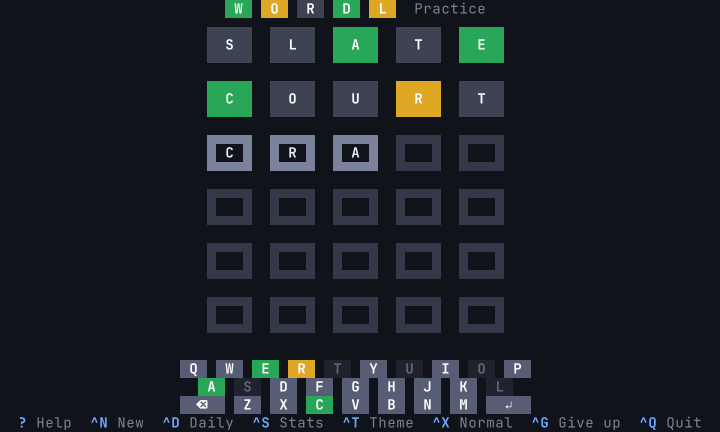
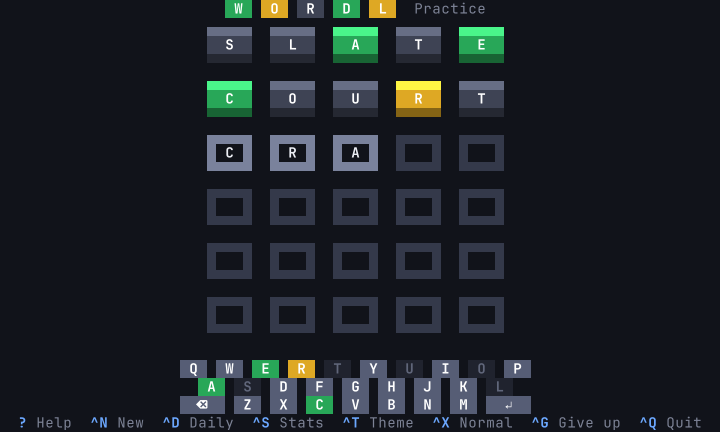
Draw tiles, keys and the title as shaded pixel art (0.2.6) (#11)
Filled blocks now have a lit top and left edge, a dark bottom and right
edge, and letters that cast a shadow, with a color for every pixel. It
is done with the half-block character the game already used: each cell
is drawn in its upper pixel's color on a background of its lower
pixel's, so it works in any terminal with enough colors. A key known
not to be in the word looks pressed in. The terminal theme, which has
no colors to shade, stays flat.

diff --git a/src/ui.rs b/src/ui.rs
@@ -12,7 +12,7 @@ use crate::app::{Action, App, FLASH_STEP, FLIP, KeyId, MessageKind, Modal, SHAKE
 use crate::font::{self, Label};
 use crate::game::{self, Mark, Mode, Status};
 use crate::layout::{self, Layout};
-use crate::theme::{Paint, Theme};
+use crate::theme::{self, Paint, Shades, Theme};
 use crate::words;
 
 const KEY_ROWS: [&str; 3] = ["QWERTYUIOP", "ASDFGHJKL", "ZXCVBNM"];
@@ -74,8 +74,11 @@ impl Canvas<'_> {
     /// blocks without spending a row on it. `fill` paints the block in `bg`; otherwise
     /// it is a frame in `bg` around the label. `inset` squashes the block vertically,
     /// for the flip animation.
+    ///
+    /// A filled block is drawn raised, as pixel art, where the theme has shades for it
+    /// (see `sprite`); `sunken` presses it in instead.
     #[allow(clippy::too_many_arguments)]
-    fn block(&mut self, x: i32, y: i32, w: i32, t: i32, fill: bool, bg: Paint, fg: Paint, label: Label, inset: i32) {
+    fn block(&mut self, x: i32, y: i32, w: i32, t: i32, fill: bool, bg: Paint, fg: Paint, label: Label, inset: i32, sunken: bool) {
         let screen = self.th.bg.bg;
         if t < 3 {
             return self.put(x, y, &centered(&label.text(w), w), on(fg.fg, bg.bg).bold());
@@ -88,8 +91,21 @@ impl Canvas<'_> {
         if bottom == top {
             return self.put(x, y + top, &"━".repeat(w as usize), edge);
         }
-        self.put(x, y + top, &"▄".repeat(w as usize), edge);
-        self.put(x, y + bottom, &"▀".repeat(w as usize), edge);
+        let shades = self.th.shades(bg).filter(|_| fill);
+        if let Some(shades) = shades
+            && t >= 5
+        {
+            return self.sprite(x, y, w, t, bg, fg, label, inset, sunken, shades);
+        }
+        // With one row of text there is no room for more than a lit top edge and a
+        // dark bottom one.
+        let (above, below) = match shades {
+            Some(s) if sunken => (s.dark, s.light),
+            Some(s) => (s.light, s.dark),
+            None => (bg.fg, bg.fg),
+        };
+        self.put(x, y + top, &"▄".repeat(w as usize), on(above, screen));
+        self.put(x, y + bottom, &"▀".repeat(w as usize), on(below, screen));
         let rows = if t == 3 { vec![centered(&label.text(w), w)] } else { font::glyph(label, w, t) };
         for i in top + 1..bottom {
             let Some(row) = rows.get((i - 1) as usize) else { continue };
@@ -100,6 +116,49 @@ impl Canvas<'_> {
                 self.put(x, y + i, "█", edge);
                 self.put(x + 1, y + i, &inner, on(fg.fg, screen).bold());
                 self.put(x + w - 1, y + i, "█", edge);
+            }
+        }
+    }
+
+    /// A filled block as pixel art: lit top and left edges, dark bottom and right
+    /// edges, and a letter that casts a shadow down and to the right.
+    ///
+    /// Every pixel has its own color. A cell holds two of them, one above the other:
+    /// it is drawn as `▀` in the color of the upper pixel on a background in the color
+    /// of the lower one. The block's first and last pixel rows are the screen's, as
+    /// for flat blocks, which keeps the gap between blocks.
+    #[allow(clippy::too_many_arguments)]
+    fn sprite(&mut self, x: i32, y: i32, w: i32, t: i32, bg: Paint, fg: Paint, label: Label, inset: i32, sunken: bool, shades: Shades) {
+        let screen = self.th.bg.bg;
+        let ink = font::pixels(label, w, t);
+        let inked = |col: i32, row: i32| row >= 2 && col >= 0 && ink.get((row - 2) as usize).and_then(|r| r.get(col as usize)).copied().unwrap_or(false);
+        let (lit, unlit) = if sunken { (shades.dark, shades.light) } else { (shades.light, shades.dark) };
+        // Big blocks get a thicker edge and a longer shadow, so the look scales.
+        let edge = if t >= 10 { 2 } else { 1 };
+        let reach = (font::scale_for(t) + 1) / 2;
+        // A light letter throws a dark shadow; a dark letter on a bright tile gets a
+        // light one instead, and reads as engraved.
+        let cast = if theme::brightness(fg) >= theme::brightness(bg) { shades.shadow } else { shades.light };
+        let (first, last) = (1 + 2 * inset, 2 * t - 2 - 2 * inset);
+        let color_at = |col: i32, row: i32| {
+            if row < first || row > last {
+                screen
+            } else if inked(col, row) {
+                fg.fg
+            } else if row - first < edge || col < edge {
+                lit
+            } else if last - row < edge || w - 1 - col < edge {
+                unlit
+            } else if !sunken && inked(col - reach, row - reach) {
+                cast
+            } else {
+                bg.bg
+            }
+        };
+        for i in inset..t - inset {
+            for col in 0..w {
+                let (upper, lower) = (color_at(col, 2 * i), color_at(col, 2 * i + 1));
+                self.put(x + col, y + i, if upper == lower { " " } else { "▀" }, on(upper, lower));
             }
         }
     }
@@ -161,7 +220,7 @@ fn draw_title(c: &mut Canvas, app: &App, l: &Layout) {
     }
     let colors = [(th.g, th.gfg), (th.y, th.yfg), (th.x, th.xfg), (th.g, th.gfg), (th.y, th.yfg)];
     for (i, (letter, (bg, fg))) in "WORDL".bytes().zip(colors).enumerate() {
-        c.block(x + i as i32 * l.title.px, l.hy, l.title.w, l.title.t, true, bg, fg, Label::Letter(letter), 0);
+        c.block(x + i as i32 * l.title.px, l.hy, l.title.w, l.title.t, true, bg, fg, Label::Letter(letter), 0, false);
     }
 }
 
@@ -214,7 +273,7 @@ fn draw_tile(c: &mut Canvas, app: &App, l: &Layout, row: usize, col: usize) {
         {
             (bg, fg) = (th.win, th.gfg);
         }
-        return c.block(x, y, d.w, d.t, true, bg, fg, Label::Letter(game.guesses[row][col]), inset);
+        return c.block(x, y, d.w, d.t, true, bg, fg, Label::Letter(game.guesses[row][col]), inset, false);
     }
     let letter = if row < guessed {
         Some(game.guesses[row][col])
@@ -228,9 +287,9 @@ fn draw_tile(c: &mut Canvas, app: &App, l: &Layout, row: usize, col: usize) {
     };
     let label = letter.map_or(Label::None, Label::Letter);
     if d.t == 1 {
-        c.block(x, y, d.w, 1, true, th.empty, th.fg, label, 0);
+        c.block(x, y, d.w, 1, true, th.empty, th.fg, label, 0, false);
     } else {
-        c.block(x, y, d.w, d.t, false, if letter.is_some() { th.typed } else { th.empty }, th.fg, label, inset);
+        c.block(x, y, d.w, d.t, false, if letter.is_some() { th.typed } else { th.empty }, th.fg, label, inset, false);
     }
 }
 
@@ -273,7 +332,8 @@ fn draw_keyboard(c: &mut Canvas, app: &App, l: &Layout) {
             Some(mark) => mark_paints(th, mark),
             None => (th.key, th.keyfg),
         };
-        c.block(x, y, w, l.keys.t, true, bg, fg, label, 0);
+        // A key known not to be in the word looks pressed in.
+        c.block(x, y, w, l.keys.t, true, bg, fg, label, 0, mark == Some(Mark::Gray));
     }
 }
 
@@ -630,6 +690,43 @@ mod tests {
         // The typed L as a bitmap inside its frame: a vertical stroke, then its foot.
         assert!(has(&s, "█ ██         █  █            █"), "no block letter");
         assert!(has(&s, "█ ██▄▄▄▄▄▄▄▄ █") || has(&s, "█ ██████████ █"), "no foot of the L");
+        let _ = std::fs::remove_dir_all(dir);
+    }
+
+    /// A revealed tile on a big terminal is pixel art: every cell carries two pixels,
+    /// the upper as the character's color and the lower as its background.
+    #[test]
+    fn revealed_tiles_are_shaded_pixel_art() {
+        let (mut app, dir) = app("sprite");
+        app.game.add_guess(game::word("CRANE").unwrap());
+        app.size = (190, 50);
+        let l = layout::layout(190, 50).unwrap();
+        let cells = |app: &App| {
+            let mut terminal = Terminal::new(TestBackend::new(190, 50)).unwrap();
+            terminal.draw(|f| draw(f, app)).unwrap();
+            let buf = terminal.backend().buffer().clone();
+            move |x: i32, y: i32| buf[((l.bx + x) as u16, (l.by + y) as u16)].clone()
+        };
+        let th = app.theme;
+        let shades = th.shades(th.g).unwrap();
+        let at = cells(&app);
+        // Top-left cell of the first tile: the screen above, the lit edge below.
+        assert_eq!((at(0, 0).symbol(), at(0, 0).fg, at(0, 0).bg), ("▀", th.bg.bg, shades.light));
+        // Further down the left edge both pixels are lit, so the cell is one color.
+        assert_eq!((at(0, 3).symbol(), at(0, 3).bg), (" ", shades.light));
+        // The right edge and the bottom edge are dark.
+        assert_eq!(at(l.board.w - 1, 3).bg, shades.dark);
+        assert_eq!((at(3, l.board.t - 1).fg, at(3, l.board.t - 1).bg), (shades.dark, th.bg.bg));
+        // Somewhere on the tile there is the letter, its shadow, and the plain green.
+        let seen: Vec<_> = (0..l.board.w).flat_map(|x| (0..l.board.t).map(move |y| (x, y))).flat_map(|(x, y)| [at(x, y).fg, at(x, y).bg]).collect();
+        for color in [th.gfg.fg, shades.shadow, th.g.bg] {
+            assert!(seen.contains(&color), "{color:?} is missing from the tile");
+        }
+
+        // The terminal theme has no shades to work with: its tiles stay flat.
+        app.theme = theme::theme("terminal", true);
+        let at = cells(&app);
+        assert_eq!((at(0, 0).symbol(), at(0, 0).fg), ("▄", app.theme.g.fg));
         let _ = std::fs::remove_dir_all(dir);
     }
 

diff --git a/src/theme.rs b/src/theme.rs
@@ -14,11 +14,26 @@ use ratatui::style::Color;
 pub struct Paint {
     pub fg: Color,
     pub bg: Color,
+    /// The color as red, green and blue, from which lighter and darker shades are
+    /// worked out. `None` in the "terminal" theme, whose colors are the terminal's own
+    /// and cannot be shaded.
+    pub rgb: Option<(u8, u8, u8)>,
+}
+
+/// The shades that make a flat tile look raised: a lit edge, a dark edge, and the
+/// shadow a letter casts on it.
+#[derive(Clone, Copy, PartialEq, Eq, Debug)]
+pub struct Shades {
+    pub light: Color,
+    pub dark: Color,
+    pub shadow: Color,
 }
 
 #[derive(Clone, Copy)]
 pub struct Theme {
     pub name: &'static str,
+    /// Whether colors are sent as exact RGB or as the nearest of 256.
+    truecolor: bool,
     /// The screen.
     pub bg: Paint,
     /// Ordinary text.
@@ -94,10 +109,11 @@ fn from_rgb(name: &'static str, truecolor: bool, c: [(u8, u8, u8); 23]) -> Theme
     let p = |i: usize| {
         let (r, g, b) = c[i];
         let color = if truecolor { Color::Rgb(r, g, b) } else { nearest_256(r, g, b) };
-        Paint { fg: color, bg: color }
+        Paint { fg: color, bg: color, rgb: Some((r, g, b)) }
     };
     Theme {
         name,
+        truecolor,
         bg: p(0),
         fg: p(1),
         dim: p(2),
@@ -126,11 +142,12 @@ fn from_rgb(name: &'static str, truecolor: bool, c: [(u8, u8, u8); 23]) -> Theme
 
 /// The terminal's own colors. `Reset` is its default foreground or background.
 fn terminal() -> Theme {
-    let same = |c: Color| Paint { fg: c, bg: c };
+    let same = |c: Color| Paint { fg: c, bg: c, rgb: None };
     let default = same(Color::Reset);
     Theme {
         name: "terminal",
-        bg: Paint { fg: Color::Black, bg: Color::Reset },
+        truecolor: false,
+        bg: Paint { fg: Color::Black, bg: Color::Reset, rgb: None },
         fg: default,
         dim: same(Color::DarkGray),
         empty: same(Color::DarkGray),
@@ -144,7 +161,7 @@ fn terminal() -> Theme {
         xfg: same(Color::White),
         key: same(Color::Gray),
         keyfg: same(Color::Black),
-        keyx: Paint { fg: Color::DarkGray, bg: Color::Reset },
+        keyx: Paint { fg: Color::DarkGray, bg: Color::Reset, rgb: None },
         keyxfg: same(Color::DarkGray),
         accent: same(Color::Cyan),
         panel: default,
@@ -154,6 +171,24 @@ fn terminal() -> Theme {
         btn: same(Color::Cyan),
         btnfg: same(Color::Black),
     }
+}
+
+impl Theme {
+    /// Lighter and darker versions of a color, for a tile drawn as raised pixel art.
+    /// `None` when the theme's colors cannot be shaded: such tiles stay flat.
+    pub fn shades(&self, paint: Paint) -> Option<Shades> {
+        let (r, g, b) = paint.rgb?;
+        let color = |f: fn(f32) -> f32| {
+            let [r, g, b] = [r, g, b].map(|c| f(c as f32).clamp(0.0, 255.0) as u8);
+            if self.truecolor { Color::Rgb(r, g, b) } else { nearest_256(r, g, b) }
+        };
+        Some(Shades { light: color(|c| c * 1.35 + 20.0), dark: color(|c| c * 0.6), shadow: color(|c| c * 0.45) })
+    }
+}
+
+/// How bright a color looks, from 0 to 255; 128 when it is not known.
+pub fn brightness(paint: Paint) -> u32 {
+    paint.rgb.map_or(128, |(r, g, b)| (299 * r as u32 + 587 * g as u32 + 114 * b as u32) / 1000)
 }
 
 /// The theme of that name; an unknown name gives the default, "midnight".
@@ -285,6 +320,22 @@ mod tests {
         }
         assert_eq!(name, NAMES[0]);
         assert_eq!(theme("no such theme", true).name, "midnight");
+    }
+
+    #[test]
+    fn shades_a_color_lighter_and_darker() {
+        let th = theme("midnight", true);
+        let shades = th.shades(th.g).unwrap();
+        assert_eq!(th.g.bg, Color::Rgb(40, 167, 88));
+        assert_eq!(shades.light, Color::Rgb(74, 245, 138));
+        assert_eq!(shades.dark, Color::Rgb(24, 100, 52));
+        assert_eq!(shades.shadow, Color::Rgb(18, 75, 39));
+        // Without truecolor the shades are still colors the terminal has.
+        assert!(matches!(theme("midnight", false).shades(th.g).unwrap().light, Color::Indexed(_)));
+        // The terminal's own colors cannot be shaded: its tiles stay flat.
+        let terminal = theme("terminal", true);
+        assert_eq!(terminal.shades(terminal.g), None);
+        assert!(brightness(th.gfg) > brightness(th.g));
     }
 
     #[test]

diff --git a/src/font.rs b/src/font.rs
@@ -105,20 +105,24 @@ pub fn font_for(t: i32) -> (i32, i32) {
     (font, scale)
 }
 
-/// Renders a label for a block `w` cells wide and `t` rows tall (`t >= 5`): one string
-/// per inner row (`t - 2` of them), each `w` characters of space, `▀`, `▄` or `█`.
-/// Colorless; the caller sets the colors around it.
-pub fn glyph(label: Label, w: i32, t: i32) -> Vec<String> {
+/// The scale of a block's letters: how many pixels across one pixel of the font is.
+pub fn scale_for(t: i32) -> i32 {
+    font_for(t).1
+}
+
+/// Renders a label as pixels for a block `w` cells wide and `t` rows tall (`t >= 5`):
+/// `2t - 4` rows of `w`, true where there is ink. These are the rows between the
+/// block's top and bottom pixel rows, which belong to its edge.
+pub fn pixels(label: Label, w: i32, t: i32) -> Vec<Vec<bool>> {
     let a = (2 * t - 4).max(0);
-    let blank = || vec![" ".repeat(w.max(0) as usize); (t - 2).max(0) as usize];
+    let mut px = vec![vec![false; w.max(0) as usize]; a as usize];
     let (bitmap, bw, f, s) = match label {
-        Label::None => return blank(),
         Label::Letter(b) if b.is_ascii_uppercase() => {
             let (f, s) = font_for(t);
             let font = if f == 7 { &FONT7 } else { &FONT5 };
             (font[(b - b'A') as usize], 5, f, s)
         }
-        Label::Letter(_) => return blank(),
+        Label::None | Label::Letter(_) => return px,
         Label::Enter | Label::Back => {
             let s = ((a - a / 8) / 5).min((w - 2) / 7).max(1);
             (if label == Label::Enter { ICON_ENTER } else { ICON_BACK }, 7, 5, s)
@@ -126,8 +130,6 @@ pub fn glyph(label: Label, w: i32, t: i32) -> Vec<String> {
     };
     let (gw, gh) = (bw * s, f * s);
     let (xo, yo) = (((w - gw) / 2).max(0), ((a - gh) / 2).max(0));
-    // Pixel rows, each `w` wide; true is inked.
-    let mut px = vec![vec![false; w.max(0) as usize]; a as usize];
     for (r, line) in bitmap.split(' ').enumerate() {
         for (c, ch) in line.bytes().enumerate() {
             if ch != b'#' {
@@ -143,7 +145,15 @@ pub fn glyph(label: Label, w: i32, t: i32) -> Vec<String> {
             }
         }
     }
-    px.chunks(2)
+    px
+}
+
+/// The same label as rows of characters, one per inner row of the block (`t - 2` of
+/// them): each `w` characters of space, `▀`, `▄` or `█`. Colorless; the caller sets
+/// the colors around it. For blocks drawn in two colors only.
+pub fn glyph(label: Label, w: i32, t: i32) -> Vec<String> {
+    pixels(label, w, t)
+        .chunks(2)
         .map(|pair| {
             (0..w.max(0) as usize)
                 .map(|x| match (pair[0][x], pair.get(1).is_some_and(|row| row[x])) {

diff --git a/CLAUDE.md b/CLAUDE.md
@@ -81,6 +81,23 @@ Single binary crate, no async. One file per concern in `src/`:
   (`▄` on top, `▀` at the bottom, in the tile's color on the screen background), which
   is what puts a gap between tiles without spending a row on it. `Canvas::block` draws
   every tile, key and title letter.
+- **Filled blocks are pixel art with a color per pixel** (asked for by the user after
+  comparing nine ways of drawing tiles in a demo; since 0.2.6). `Canvas::sprite` draws
+  a revealed tile, a key or a title letter with a lit top and left edge, a dark bottom
+  and right edge, and a letter that casts a shadow. Each cell is `▀` in the color of
+  its upper pixel on a background in the color of its lower pixel, so it needs no
+  more than the characters the game already used and works in any terminal with
+  enough colors. `Theme::shades` derives the lighter and darker colors from a role's
+  RGB. Things to keep:
+  - The `terminal` theme has no RGB to shade (`Paint::rgb` is `None`), so its blocks
+    stay flat: the code path before `sprite` in `Canvas::block` must keep working.
+  - Frames (empty and typed tiles) are not shaded; only filled blocks are.
+  - A key known not to be in the word is drawn `sunken` (edges swapped, no shadow).
+  - At level 3 there is one row of text, so only the top and bottom edges are shaded.
+  - A dark letter on a bright tile (the `neon` and `contrast` themes) gets a light
+    "shadow" instead of a dark one.
+  - Real images (the kitty graphics protocol) were tried in the demo and rejected:
+    the user's usual terminal does not show them.
 - **All coordinates are `i32` and every write is clipped.** `Canvas::put` drops what is
   off screen, so drawing code never checks bounds and never panics on a tiny window.
   It also resets a cell before writing, so a dialog drawn over bold tiles is not bold.

diff --git a/README.md b/README.md
@@ -6,7 +6,8 @@ tries.
 ![wordl in a large terminal: block-letter tiles on the left, keyboard on the right](assets/screenshot.png)
 
 - **Fills the terminal and follows its size.** On a large terminal the tiles and keys
-  are big block letters; on a small one they shrink to single characters. Wide
+  are pixel art, with raised edges and shadowed letters; on a small one they shrink to
+  single characters. Wide
   terminals put the keyboard beside the board, tall ones underneath.
 - **Keyboard first, mouse welcome.** Everything has a key; the on-screen keyboard and
   every button can also be clicked.
